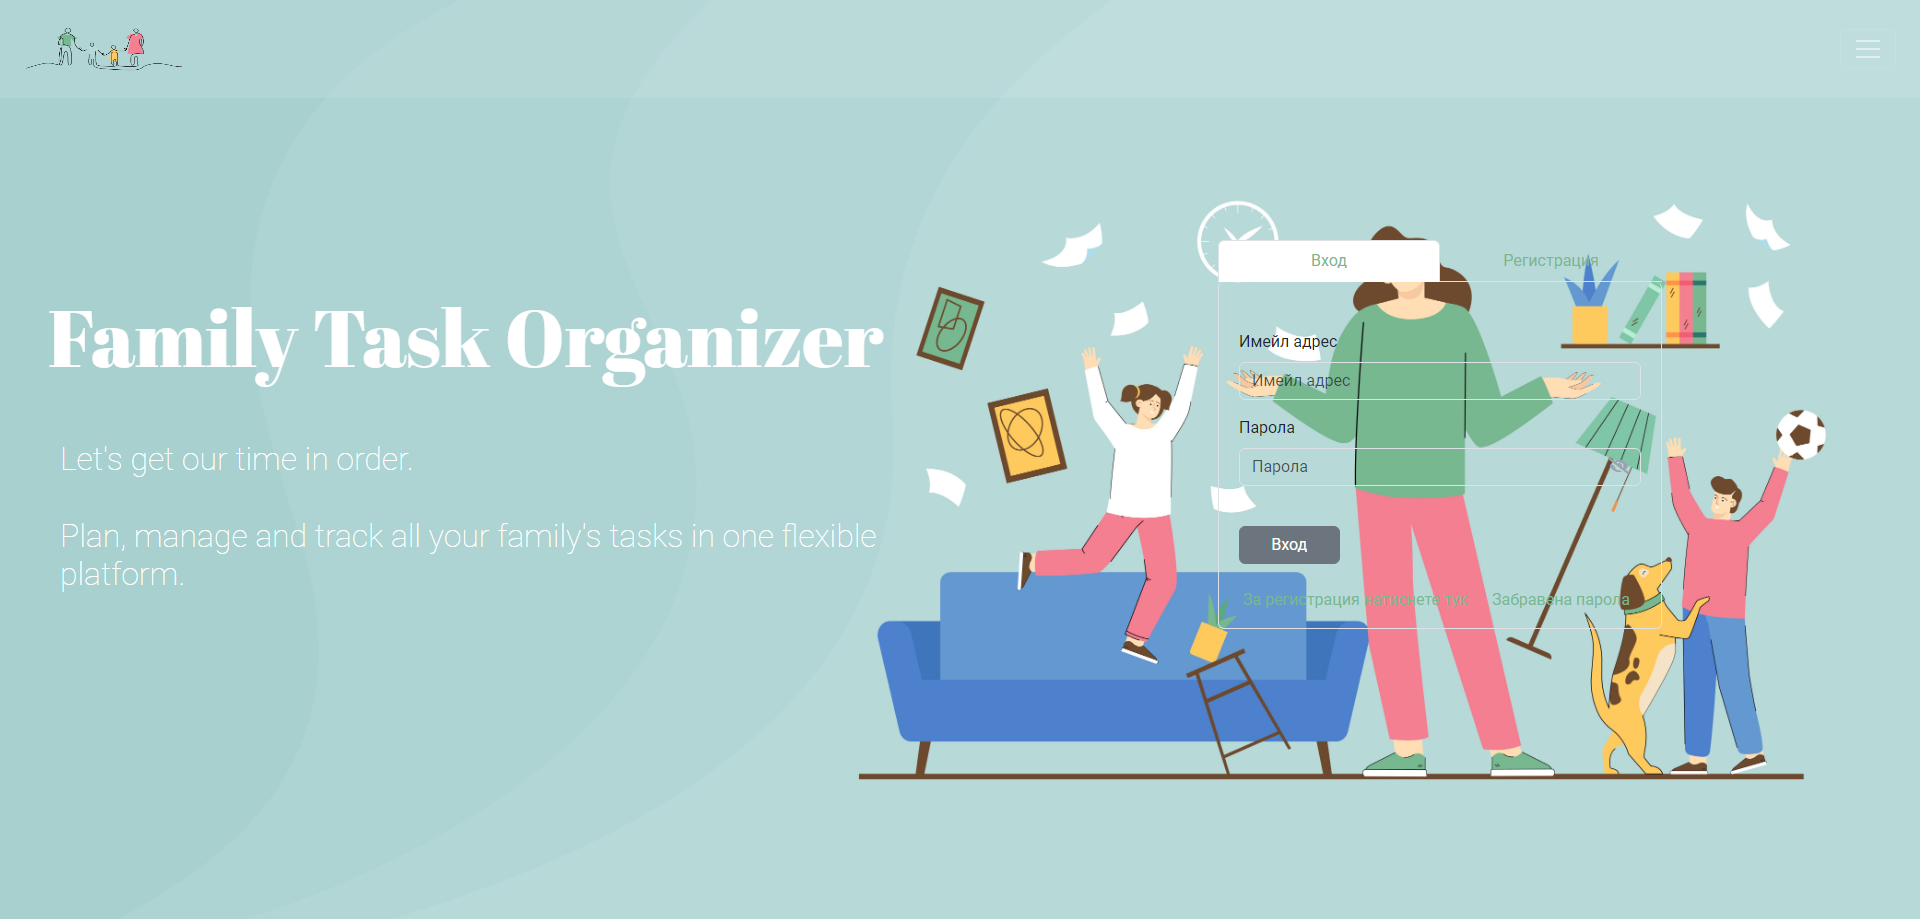
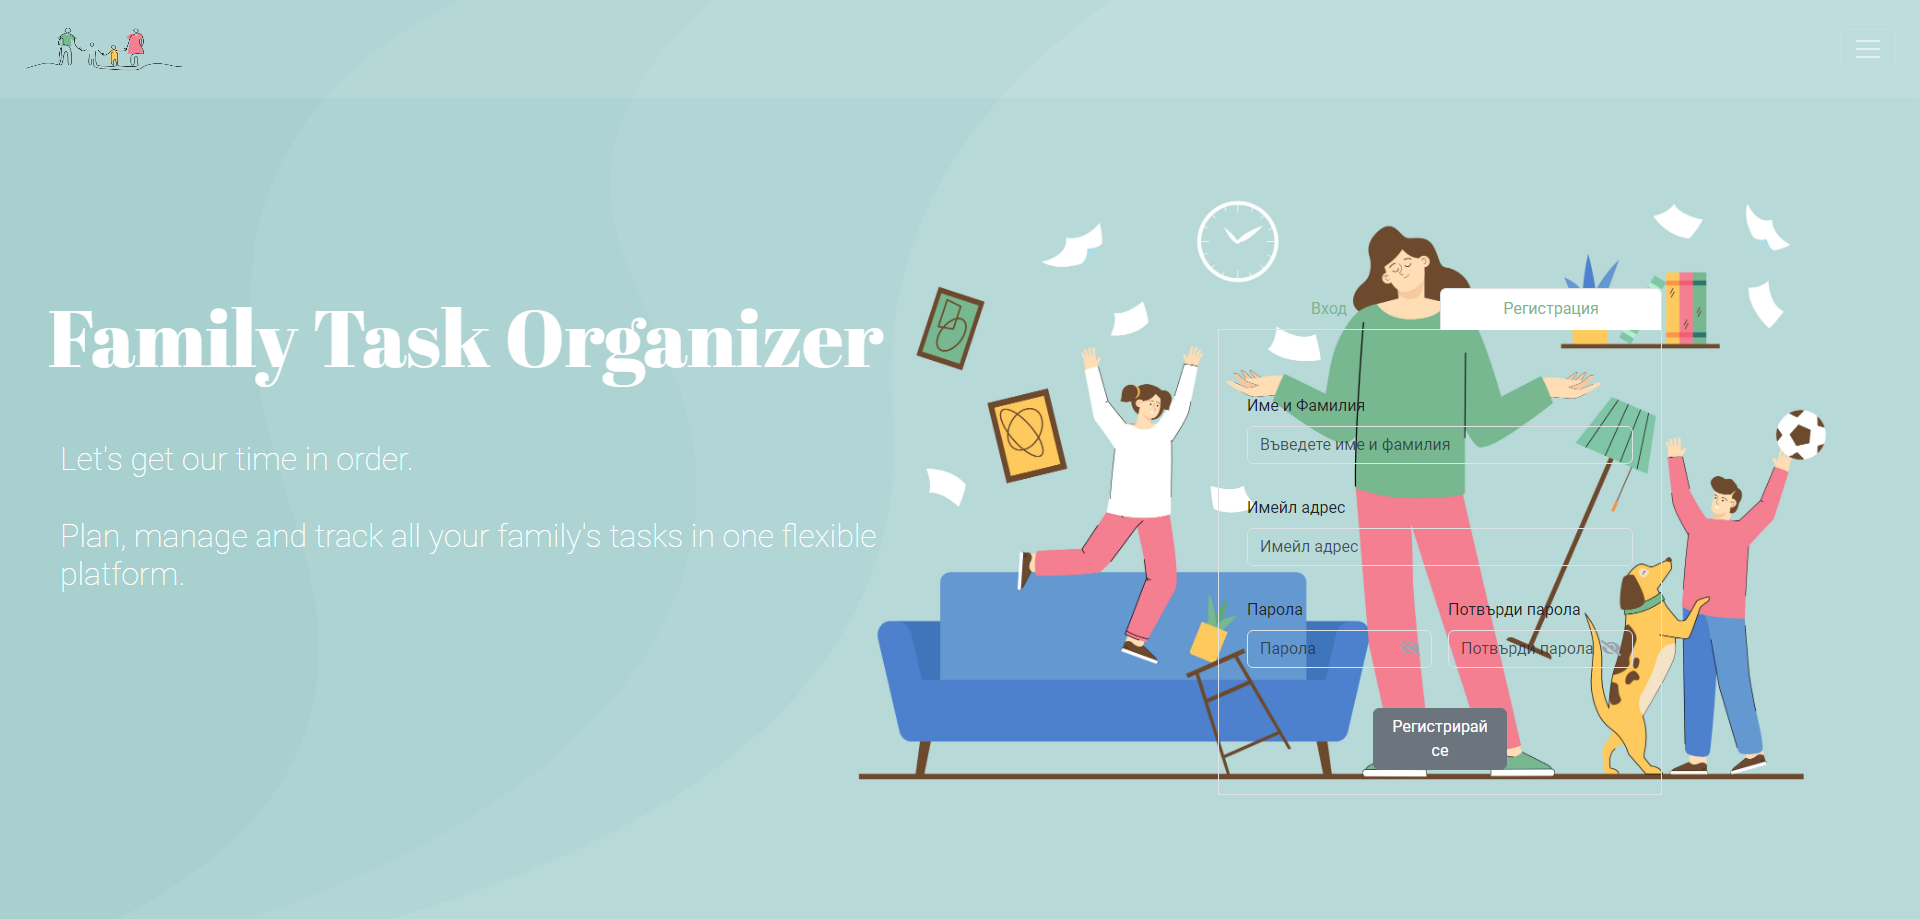
responsive

diff --git a/rest-client/src/components/Home/Home.js b/rest-client/src/components/Home/Home.js
@@ -20,14 +20,16 @@ export const Home = () => {
       <Row>
         <Col className='mt-lg-5 pt-lg-5 mt-2'>
           <Row
-            className='mt-5 pt-5'
+            className='mt-lg-5 pt-5'
             style={{
               minHeight: "30vh",
             }}>
-            <h1 className='title display-1 mt-5 p-5'>Family Task Organizer</h1>
+            <h1 className='title display-1 mt-lg-5 p-5 '>
+              Family Task Organizer
+            </h1>
           </Row>
           <Row
-            className='ps-5'
+            className='ps-5 '
             style={{
               minHeight: "30vh",
             }}>
@@ -37,7 +39,7 @@ export const Home = () => {
             </h2>
           </Row>
         </Col>
-        <Col className='mt-5 pt-5'>
+        <Col className='mt-lg-5 pt-5'>
           <AuthTab></AuthTab>
         </Col>
       </Row>

diff --git a/rest-client/src/components/Tabs/AuthTab.js b/rest-client/src/components/Tabs/AuthTab.js
@@ -13,9 +13,13 @@ export const AuthTab = () => {
 
   return (
     <Container fluid className='m-auto  pt-lg-5'>
-      <Row xl={12} xs={1} md={2} className='pt-lg-5'>
+      <Row xl={12} xs={1} md={2} className='pt-lg-5 mb-1'>
         <Col className=' m-auto border-secondary pt-lg-5'>
-          <Tabs justify activeKey={key} onSelect={(k) => setKey(k)}>
+          <Tabs
+            className='mt-lg-5 '
+            justify
+            activeKey={key}
+            onSelect={(k) => setKey(k)}>
             <Tab
               className='border border-top-0 rounded'
               eventKey='login'

diff --git a/rest-client/src/components/Register/Register.js b/rest-client/src/components/Register/Register.js
@@ -202,7 +202,7 @@ export const RegisterPage = () => {
           </Form.Group>
 
           <Button
-            className='col-md-4  m-auto mt-4 mb-3'
+            className='col-md-6  m-auto mt-4 mb-3'
             variant='secondary'
             type='submit'>
             {isLoading && (
